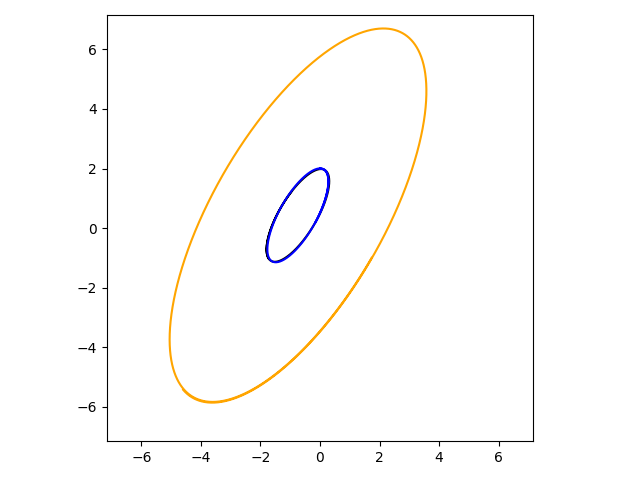
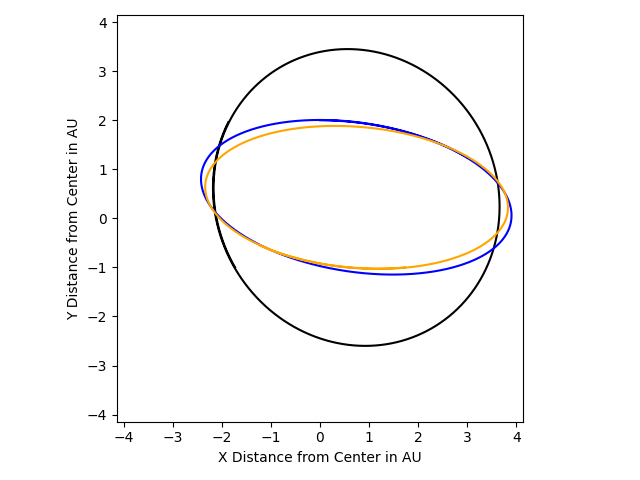
figure updates

diff --git a/Animate_Euler.py b/Animate_Euler.py
@@ -21,6 +21,8 @@ M1 = float(input("please provide a real value for M1 in units of solar masses: "
 M2 = float(input("please provide a real value for M2 in units of solar masses: "))
 M3 = float(input("please provide a real value for M3 in units of solar masses: "))
 
+M = (M1 * M2 * M3)/(M1 + M2 + M3)
+
 x1 = -np.sqrt(3)
 y1 = -1
 x2 = 0
@@ -28,7 +30,7 @@ y2 = 2
 x3 = np.sqrt(3)
 y3 = -1
 
-factor= np.sqrt(G*3/3)/2
+factor= np.sqrt(G*M)
 
 x1p = -1/2 * factor
 y1p = np.sqrt(3)/2 * factor
